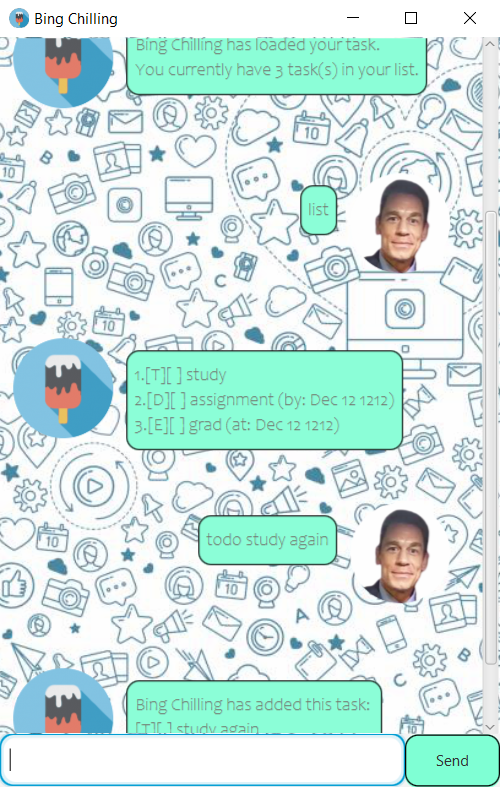
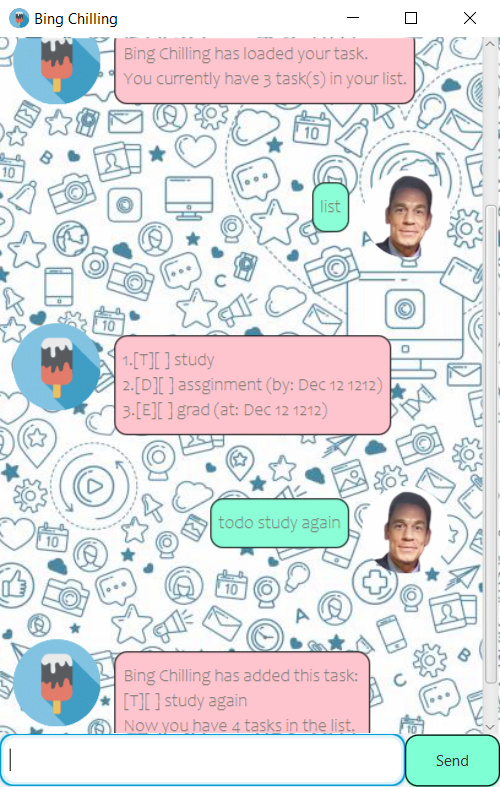
Update Ui.png, code to follow Java coding standard, bot dialog box color

diff --git a/src/main/java/duke/Parser.java b/src/main/java/duke/Parser.java
@@ -4,8 +4,17 @@ import java.time.LocalDate;
 import java.time.format.DateTimeParseException;
 import java.util.HashMap;
 
-import duke.command.*;
+import duke.command.AddCommand;
 import duke.command.BingChillingCommand;
+import duke.command.ClearCommand;
+import duke.command.Command;
+import duke.command.DeleteCommand;
+import duke.command.ExitCommand;
+import duke.command.FindCommand;
+import duke.command.MarkCommand;
+import duke.command.OutputCommand;
+import duke.command.PostponeCommand;
+import duke.command.UnmarkCommand;
 import duke.exception.BingChillingException;
 import duke.task.Task;
 import duke.ui.MessageUi;
@@ -170,9 +179,9 @@ public class Parser {
                 }
                 break;
             case "event":
-                boolean hasWrongEventTaskFormat = !(fullCommand.contains(" /at ")) ||
-                        fullCommand.split(" /at ", 2).length == 1 ||
-                        fullCommand.split(" /at ")[0].split("event").length == 0;
+                boolean hasWrongEventTaskFormat = !(fullCommand.contains(" /at "))
+                        || fullCommand.split(" /at ", 2).length == 1
+                        || fullCommand.split(" /at ")[0].split("event").length == 0;
                 if (hasWrongEventTaskFormat) {
                     throw new BingChillingException(invalidFormatMessage);
                 }
@@ -181,9 +190,9 @@ public class Parser {
                 LocalDate.parse(eventDate, Task.getInputDateFormat());
                 break;
             case "deadline":
-                boolean hasWrongDeadlineTaskFormat = !(fullCommand.contains(" /by ")) ||
-                        fullCommand.split(" /by ", 2).length == 1 ||
-                        fullCommand.split(" /by ")[0].split("deadline").length == 0;
+                boolean hasWrongDeadlineTaskFormat = !(fullCommand.contains(" /by "))
+                        || fullCommand.split(" /by ", 2).length == 1
+                        || fullCommand.split(" /by ")[0].split("deadline").length == 0;
                 if (hasWrongDeadlineTaskFormat) {
                     throw new BingChillingException(invalidFormatMessage);
                 }

diff --git a/src/test/java/duke/ParserTest.java b/src/test/java/duke/ParserTest.java
@@ -1,39 +1,40 @@
 package duke;
 
-import duke.exception.BingChillingException;
-import org.junit.jupiter.api.Test;
-
 import static org.junit.jupiter.api.Assertions.assertEquals;
 
+import org.junit.jupiter.api.Test;
+
+import duke.exception.BingChillingException;
+import duke.ui.MessageUi;
+
 public class ParserTest {
+    private MessageUi messageUi;
 
     @Test
-    public void testInvalidInput() {
+    public void testInvalidCommand() {
         try {
             Parser.parse("invalid input");
         } catch (BingChillingException err) {
-            assertEquals("I'm so very sorry, " +
-                            "please make sure you enter a valid Ekud command",
-                    err.getMessage());
+            assertEquals("Bing Chilling does not recognise the command", err.getMessage());
         }
     }
 
     @Test
-    public void testEmptyInPut() {
+    public void testEmptyCommand() {
         try {
             Parser.parse("");
         } catch (BingChillingException err) {
-            assertEquals("☹ OOPS!!! Please input a command",
+            assertEquals("Bing Chilling does not recognise the command",
                     err.getMessage());
         }
     }
 
     @Test
-    public void testEmptyDescription() {
+    public void testInvalidFormatCommand() {
         try {
-            Parser.parse("todo");
+            Parser.parse("todo three");
         } catch (BingChillingException err) {
-            assertEquals("I'm so very sorry, the description of a todo cannot be empty.",
+            assertEquals("Bing Chilling does not recognise the command format",
                     err.getMessage());
         }
     }

diff --git a/src/main/java/duke/gui/DialogBox.java b/src/main/java/duke/gui/DialogBox.java
@@ -14,8 +14,6 @@ import javafx.scene.image.Image;
 import javafx.scene.image.ImageView;
 import javafx.scene.layout.HBox;
 import javafx.scene.layout.Region;
-import javafx.scene.paint.ImagePattern;
-import javafx.scene.shape.Circle;
 
 /**
  * An example of a custom control using FXML.
@@ -23,12 +21,16 @@ import javafx.scene.shape.Circle;
  * containing text from the speaker.
  */
 public class DialogBox extends HBox {
+    private final String BOT_DIALOG_CSS_STYLE =
+            "-fx-background-color: PINK; "
+                    + "-fx-label-padding: 0px 5px 10px 5px; "
+                    + "-fx-background-radius: 10px; "
+                    + "-fx-border-color: BLACK; "
+                    + "-fx-border-radius: 10px;";
     @FXML
     private Label dialog;
     @FXML
     private ImageView displayPicture;
-    @FXML
-    private static Circle circleDp;
 
     private DialogBox(String text, Image img) {
         try {
@@ -62,6 +64,7 @@ public class DialogBox extends HBox {
     public static DialogBox getDukeDialog(String text, Image img) {
         var db = new DialogBox(text, img);
         db.flip();
+        db.dialog.setStyle(db.BOT_DIALOG_CSS_STYLE);
         return db;
     }
 }

diff --git a/src/test/java/command/CommandsTest.java b/src/test/java/command/CommandsTest.java
@@ -1,10 +1,12 @@
 package command;
-import duke.command.BingChillingCommand;
-import org.junit.jupiter.api.Test;
+
+import static org.junit.jupiter.api.Assertions.assertEquals;
 
 import java.util.HashMap;
 
-import static org.junit.jupiter.api.Assertions.assertEquals;
+import org.junit.jupiter.api.Test;
+
+import duke.command.BingChillingCommand;
 
 public class CommandsTest {
 
@@ -14,10 +16,11 @@ public class CommandsTest {
         assertEquals("ADD_COMMAND", h.get("todo"));
         assertEquals("ADD_COMMAND", h.get("event"));
         assertEquals("ADD_COMMAND", h.get("deadline"));
-        assertEquals("DELETE_COMMAND",h.get("delete"));
-        assertEquals("MARK_COMMAND",h.get("mark"));
-        assertEquals("UNMARK_COMMAND",h.get("unmark"));
-        assertEquals("OUTPUT_COMMAND",h.get("list"));
-
+        assertEquals("DELETE_COMMAND", h.get("delete"));
+        assertEquals("MARK_COMMAND", h.get("mark"));
+        assertEquals("UNMARK_COMMAND", h.get("unmark"));
+        assertEquals("OUTPUT_COMMAND", h.get("list"));
+        assertEquals("POSTPONE_COMMAND", h.get("postpone"));
+        assertEquals("CLEAR_COMMAND", h.get("clear"));
     }
 }

diff --git a/src/main/java/duke/ui/MessageUi.java b/src/main/java/duke/ui/MessageUi.java
@@ -133,10 +133,20 @@ public class MessageUi {
         return "Got it, Bing Chilling has cleared your task list";
     }
 
+    /**
+     * Outputs a message when an invalid command is supplied.
+     *
+     * @return Invalid command message.
+     */
     public String showInvalidCommandMessage() {
         return "Bing Chilling does not recognise the command";
     }
 
+    /**
+     * Outputs a message when a command that is of the incorrect format is supplied.
+     *
+     * @return Incorrect command format message.
+     */
     public String showInvalidFormatMessage() {
         return "Bing Chilling does not recognise the command format";
     }

diff --git a/src/main/java/duke/gui/MainWindow.java b/src/main/java/duke/gui/MainWindow.java
@@ -8,7 +8,8 @@ import javafx.fxml.FXML;
 import javafx.scene.control.ScrollPane;
 import javafx.scene.control.TextField;
 import javafx.scene.image.Image;
-import javafx.scene.layout.*;
+import javafx.scene.layout.AnchorPane;
+import javafx.scene.layout.VBox;
 
 
 /**

diff --git a/src/main/java/duke/gui/Main.java b/src/main/java/duke/gui/Main.java
@@ -8,7 +8,7 @@ import javafx.application.Application;
 import javafx.fxml.FXMLLoader;
 import javafx.scene.Scene;
 import javafx.scene.image.Image;
-import javafx.scene.layout.*;
+import javafx.scene.layout.AnchorPane;
 import javafx.stage.Stage;
 
 /**

diff --git a/src/main/java/duke/command/FindCommand.java b/src/main/java/duke/command/FindCommand.java
@@ -1,7 +1,6 @@
 package duke.command;
 
 import java.util.ArrayList;
-import java.util.Collections;
 import java.util.List;
 
 import duke.Storage;
